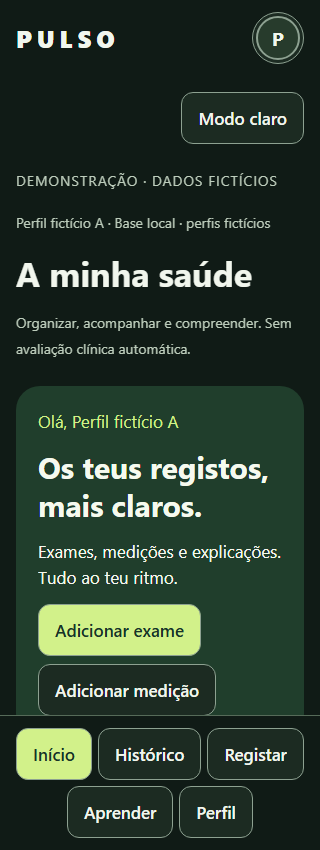
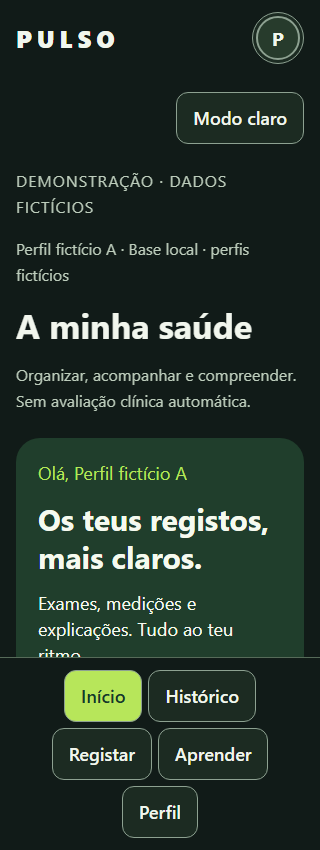
release: validate PULSO v0.7 adaptive experience and health timeline

diff --git a/apps/mobile/src/clinical/EventViews.tsx b/apps/mobile/src/clinical/EventViews.tsx
@@ -12,7 +12,7 @@ export function EventEditor({owner,data,event,onSaved,onCancel}:{owner:string;da
  async function save(){setBusy(true);setError('');try{if(event)await clinicalRepository.editEvent(owner,id,draft,version);else await clinicalRepository.saveEvent(owner,{...draft,id,ownerId:owner,synthetic:true});onSaved();}catch(e){setError((e as Error).message);setConflict(e instanceof ApiError&&e.status===409);}finally{setBusy(false);}}
  function revise(){if(!draft.title.trim()||draft.title.length>120||draft.description.length>2000||!validTimestamp(draft.startsAt)||draft.endsAt&&(!validTimestamp(draft.endsAt)||Date.parse(draft.endsAt)<Date.parse(draft.startsAt))){setError('Introduza um título até 120 caracteres e datas válidas. O fim não pode ser anterior ao início; descrição até 2000 caracteres.');return;}setError('');setReview(true);}
  return <Card><T kind="heading">{event?'Editar acontecimento':'Registar acontecimento'}</T><T kind="small">Apenas factos fictícios declarados por si. Sem diagnóstico, avaliação automática ou relação causal com medições.</T>
- {review?<><T>{draft.title} · {eventTypes[draft.type]}</T><T>{displayTime(draft.startsAt)}{draft.endsAt?' até '+displayTime(draft.endsAt):''}</T><T>{draft.description}</T><T kind="small">{draft.documentIds.length} documentos associados · {draft.verification==='documented'?'Documentado, sem validação clínica':'Autodeclarado'}</T><Button label="Confirmar e guardar acontecimento" primary disabled={busy||conflict} onPress={()=>void save()}/><Button label="Voltar à edição do acontecimento" disabled={busy} onPress={()=>setReview(false)}/></>:<><Field label="Título do acontecimento" value={draft.title} onChange={title=>setDraft({...draft,title})}/><View style={layout.row}>{Object.entries(eventTypes).map(([type,label])=><Button key={type} label={label} selected={draft.type===type} onPress={()=>setDraft({...draft,type:type as HealthEvent['type']})}/>)}</View><Field dateTime label="Início do acontecimento" value={draft.startsAt} onChange={startsAt=>setDraft({...draft,startsAt})}/><Field dateTime label="Fim do acontecimento (opcional)" value={draft.endsAt??''} onChange={endsAt=>setDraft({...draft,endsAt:endsAt||null})}/><T kind="small">Horas locais do navegador; guardadas com fuso. Na interface nativa experimental use ISO com fuso.</T><Field label="Descrição do acontecimento" value={draft.description} onChange={description=>setDraft({...draft,description})}/><Field label="Instituição (opcional)" value={draft.institution} onChange={institution=>setDraft({...draft,institution})}/>
+ {review?<><T>{draft.title} · {eventTypes[draft.type]}</T><T>{displayTime(draft.startsAt)}{draft.endsAt?' até '+displayTime(draft.endsAt):''}</T><T>{draft.description}</T><T kind="small">{draft.documentIds.length} documentos associados · {draft.verification==='documented'?'Documentado, sem validação clínica':'Autodeclarado'}</T><Button label="Confirmar e guardar acontecimento" primary disabled={busy||conflict} onPress={()=>void save()}/><Button label="Voltar à edição do acontecimento" disabled={busy} onPress={()=>setReview(false)}/></>:<><Field label="Título do acontecimento" value={draft.title} onChange={title=>setDraft({...draft,title})}/><View style={layout.row}>{Object.entries(eventTypes).map(([type,label])=><Button key={type} label={label} selected={draft.type===type} onPress={()=>setDraft({...draft,type:type as HealthEvent['type']})}/>)}</View><Field required dateTime label="Início do acontecimento" value={draft.startsAt} onChange={startsAt=>setDraft({...draft,startsAt})}/><Field dateTime label="Fim do acontecimento (opcional)" value={draft.endsAt??''} onChange={endsAt=>setDraft({...draft,endsAt:endsAt||null})}/><T kind="small">Horas locais do navegador; guardadas com fuso. Na interface nativa experimental use ISO com fuso.</T><Field label="Descrição do acontecimento" value={draft.description} onChange={description=>setDraft({...draft,description})}/><Field label="Instituição (opcional)" value={draft.institution} onChange={institution=>setDraft({...draft,institution})}/>
  <T kind="heading">Documentos associados</T>{data.documents.filter(d=>d.ownerId===owner).map(doc=><Button key={doc.id} label={'Associar '+doc.title} selected={draft.documentIds.includes(doc.id)} onPress={()=>{const links=draft.documentIds.includes(doc.id)?draft.documentIds.filter(id=>id!==doc.id):[...draft.documentIds,doc.id];setDraft({...draft,documentIds:links,verification:links.length?draft.verification:'user_declared'});}}/>)}{!data.documents.length&&<T kind="small">Sem documentos guardados. Pode registar sem documento.</T>}{!!draft.documentIds.length&&<Button label="Assinalar como documentado (não validado clinicamente)" selected={draft.verification==='documented'} onPress={()=>setDraft({...draft,verification:draft.verification==='documented'?'user_declared':'documented'})}/>}<Button label="Rever acontecimento" primary disabled={busy||conflict} onPress={revise}/></>}
  {conflict&&<Card><T>Os campos foram mantidos. Consulte a versão guardada antes de decidir.</T><Button label="Consultar versão atual do acontecimento" disabled={busy} onPress={()=>void clinicalRepository.load(owner).then(data=>{const row=data.events?.find(e=>e.id===id);if(!row)throw Error('O acontecimento foi eliminado. Cancele a edição para atualizar.');setCurrent(row);}).catch(e=>setError(e.message))}/>{current&&<><EventDetail event={current} data={data}/><Button label="Usar versão atual mantendo os meus campos" onPress={()=>{setVersion(current.version);setConflict(false);setError('');}}/></>}</Card>}
  <Button label="Cancelar acontecimento" disabled={busy} onPress={onCancel}/>{!!error&&<T accessibilityRole="alert">{error}</T>}{busy&&<T accessibilityLiveRegion="polite">A guardar…</T>}</Card>;

diff --git a/apps/mobile/src/ui.tsx b/apps/mobile/src/ui.tsx
@@ -25,8 +25,8 @@ export function T({children,kind='body',level,style,...rest}:TextProps&{tabIndex
 }
 export function Card({children,testID,style}:{children:React.ReactNode;testID?:string;style?:StyleProp<ViewStyle>}){const {colors:c}=useTheme();return <View testID={testID} style={[{backgroundColor:c.card,borderColor:c.line,borderWidth:1,borderRadius:20,padding:20,gap:12},style]}>{children}</View>;}
 export function Button({label,onPress,selected,primary=false,disabled=false,buttonRef}:{label:string;onPress:()=>void;selected?:boolean;primary?:boolean;disabled?:boolean;buttonRef?:React.Ref<View>}){const {colors:c,settings}=useTheme();return <Pressable ref={buttonRef} accessibilityRole="button" accessibilityLabel={label} accessibilityState={Platform.OS==='web'?{disabled}:{selected,disabled}} {...(Platform.OS==='web'?{'aria-pressed':selected}:{})} disabled={disabled} onPress={onPress} style={({pressed})=>({minHeight:settings.mode==='simple'?56:50,maxWidth:'100%',paddingHorizontal:16,paddingVertical:12,borderRadius:12,borderWidth:1,borderColor:c.control,backgroundColor:selected||primary?c.accent:c.card,opacity:disabled?0.5:pressed?0.75:1,justifyContent:'center'})}><T style={{fontWeight:'600',color:selected||primary?c.accentInk:c.ink}}>{label}</T></Pressable>;}
-export function Field({label,value,onChange,placeholder,labelAccessory,error,inputRef,secure=false,date=false,dateTime=false,dateMax}:{label:string;value:string;onChange:(s:string)=>void;placeholder?:string;labelAccessory?:React.ReactNode;error?:string;inputRef?:React.Ref<TextInput>;secure?:boolean;date?:boolean;dateTime?:boolean;dateMax?:string}){
+export function Field({label,value,onChange,placeholder,labelAccessory,error,inputRef,secure=false,date=false,dateTime=false,dateMax,required=false}:{label:string;value:string;onChange:(s:string)=>void;placeholder?:string;labelAccessory?:React.ReactNode;error?:string;inputRef?:React.Ref<TextInput>;secure?:boolean;date?:boolean;dateTime?:boolean;dateMax?:string;required?:boolean}){
  const {colors:c,scale,dark}=useTheme(),id=useId(),labelId=id+'-label',errorId=id+'-error';
- return <View style={{gap:5}}><View style={{flexDirection:'row',alignItems:'center',gap:8}}><View style={{flex:1}}><T nativeID={labelId} kind="small">{label}</T></View>{labelAccessory}</View>{(date||dateTime)&&Platform.OS==='web'?<input type={dateTime?'datetime-local':'date'} aria-label={label} aria-labelledby={labelId} aria-invalid={!!error} aria-describedby={error?errorId:undefined} required min={dateTime?undefined:"1900-01-01"} max={dateMax} value={dateTime&&value&&Number.isFinite(Date.parse(value))?new Date(Date.parse(value)-new Date(value).getTimezoneOffset()*60000).toISOString().slice(0,16):value} onChange={event=>onChange(dateTime&&event.target.value?new Date(event.target.value).toISOString():event.target.value)} style={{width:'100%',minWidth:0,boxSizing:'border-box',color:c.ink,fontSize:18*scale,padding:14,minHeight:50,border:`${error?2:1}px solid ${c.control}`,borderRadius:10,backgroundColor:c.bg,colorScheme:dark?'dark':'light'}}/>:<TextInput ref={inputRef} accessibilityLabel={label} aria-labelledby={labelId} aria-invalid={!!error} aria-describedby={error?errorId:undefined} secureTextEntry={secure} autoCapitalize={secure||label.includes('mail')?'none':undefined} value={value} onChangeText={onChange} placeholder={placeholder} placeholderTextColor={c.muted} style={{color:c.ink,fontSize:18*scale,padding:14,minHeight:50,borderWidth:error?2:1,borderColor:error?c.ink:c.control,borderRadius:10,backgroundColor:c.bg}}/>}{!!error&&<T nativeID={errorId} kind="small">{error}</T>}</View>;
+ return <View style={{gap:5}}><View style={{flexDirection:'row',alignItems:'center',gap:8}}><View style={{flex:1}}><T nativeID={labelId} kind="small">{label}</T></View>{labelAccessory}</View>{(date||dateTime)&&Platform.OS==='web'?<input type={dateTime?'datetime-local':'date'} aria-label={label} aria-labelledby={labelId} aria-invalid={!!error} aria-describedby={error?errorId:undefined} required={required} min={dateTime?undefined:"1900-01-01"} max={dateMax} value={dateTime&&value&&Number.isFinite(Date.parse(value))?new Date(Date.parse(value)-new Date(value).getTimezoneOffset()*60000).toISOString().slice(0,16):value} onChange={event=>onChange(dateTime&&event.target.value?new Date(event.target.value).toISOString():event.target.value)} style={{width:'100%',minWidth:0,boxSizing:'border-box',color:c.ink,fontSize:18*scale,padding:14,minHeight:50,border:`${error?2:1}px solid ${c.control}`,borderRadius:10,backgroundColor:c.bg,colorScheme:dark?'dark':'light'}}/>:<TextInput ref={inputRef} accessibilityLabel={label} aria-labelledby={labelId} aria-invalid={!!error} aria-describedby={error?errorId:undefined} secureTextEntry={secure} autoCapitalize={secure||label.includes('mail')?'none':undefined} value={value} onChangeText={onChange} placeholder={placeholder} placeholderTextColor={c.muted} style={{color:c.ink,fontSize:18*scale,padding:14,minHeight:50,borderWidth:error?2:1,borderColor:error?c.ink:c.control,borderRadius:10,backgroundColor:c.bg}}/>}{!!error&&<T nativeID={errorId} kind="small">{error}</T>}</View>;
 }
 export const layout=StyleSheet.create({stack:{gap:16},row:{flexDirection:'row',flexWrap:'wrap',gap:8},grow:{flexGrow:1,flexShrink:1,minWidth:0,flexBasis:260}});

diff --git a/apps/mobile/src/RegisterHub.tsx b/apps/mobile/src/RegisterHub.tsx
@@ -5,14 +5,14 @@ import {registrationCategories,classificationFor} from './clinical/classificatio
 import {PressureForm,PdfForm} from './clinical/Forms';
 type Selection={category:string;type:string}|null;
 const norm=(s:string)=>s.normalize('NFD').replace(/[\u0300-\u036f]/g,'').toLocaleLowerCase('pt-PT');
-export function RegisterHub({owner,onSaved,initialMode}:{owner:string;onSaved:()=>void;initialMode:'pressure'|'pdf'|null}){
+export function RegisterHub({owner,onSaved,initialMode,onEvent}:{onEvent?:()=>void;owner:string;onSaved:()=>void;initialMode:'pressure'|'pdf'|null}){
  const {colors:c}=useTheme(),[query,setQuery]=useState(''),[category,setCategory]=useState<string|null>(null),[selected,setSelected]=useState<Selection>(initialMode==='pressure'?{category:'pressure',type:'manual-pressure'}:initialMode==='pdf'?{category:'laboratory',type:'blood'}:null);
  const item=registrationCategories.find(c=>c.id===(selected?.category??category)),type=item?.types.find(t=>t.id===selected?.type);
  if(selected&&item&&type)return <View style={layout.stack}><Button label="Voltar às categorias de registo" onPress={()=>{setSelected(null);setCategory(null);}}/>
  {type.mode==='pressure'?<PressureForm owner={owner} onSaved={onSaved}/>:type.mode==='planned'?<Card><T kind="heading">Em preparação</T><T>Esta opção ainda não permite criar registos.</T></Card>:<PdfForm key={item.id+type.id} owner={owner} onSaved={onSaved} classification={classificationFor(item.id,type.id)} documentOnly={type.mode==='document'}/>}</View>;
  return <View style={layout.stack}><T kind="heading">O que pretende registar?</T><T>Selecione uma categoria para adicionar um exame, documento ou medição.</T>
  <Field label="Pesquisar categorias e tipos de exame" value={query} onChange={value=>{setQuery(value);setCategory(null);}} placeholder="Ex.: sangue, Holter, radiografia"/>
- <View style={layout.row}><Button label="Importar análises ao sangue" primary onPress={()=>setSelected({category:'laboratory',type:'blood'})}/><Button label="Registar tensão arterial" onPress={()=>setSelected({category:'pressure',type:'manual-pressure'})}/></View>
+ <View style={layout.row}><Button label="Importar análises ao sangue" primary onPress={()=>setSelected({category:'laboratory',type:'blood'})}/><Button label="Registar tensão arterial" onPress={()=>setSelected({category:'pressure',type:'manual-pressure'})}/>{onEvent&&<Button label="Registar acontecimento" onPress={onEvent}/>}</View>
  {item&&category?<Card><T kind="heading">{item.label}</T><View style={layout.row}>{item.types.map(t=><Button key={t.id} label={t.label+(t.mode==='planned'?' · Em preparação':'')} disabled={t.mode==='planned'} onPress={()=>setSelected({category:item.id,type:t.id})}/>)}</View><Button label="Todas as categorias de registo" onPress={()=>setCategory(null)}/></Card>:
  <View style={layout.row}>{registrationCategories.filter(item=>norm(item.label+' '+item.description+' '+item.types.map(t=>t.label).join(' ')).includes(norm(query.trim()))).map(item=><Pressable key={item.id} accessibilityRole="button" accessibilityLabel={item.label} onPress={()=>setCategory(item.id)} style={({pressed})=>({flexGrow:1,flexShrink:1,flexBasis:230,minWidth:0,minHeight:156,padding:20,gap:8,borderWidth:1,borderColor:c.control,borderRadius:20,backgroundColor:pressed?c.soft:c.card})}><T accessible={false} style={{fontSize:30,lineHeight:36}}>{item.icon}</T><T kind="heading">{item.label}</T><T kind="small">{item.description}</T></Pressable>)}</View>}
  {!registrationCategories.some(item=>norm(item.label+' '+item.description+' '+item.types.map(t=>t.label).join(' ')).includes(norm(query.trim())))&&<Card><T>Nenhuma categoria encontrada. Experimente outra palavra.</T></Card>}

diff --git a/apps/mobile/e2e/events.spec.ts b/apps/mobile/e2e/events.spec.ts
@@ -5,6 +5,6 @@ test('acontecimentos: criar, associar original, editar, marcadores agrupados e e
  await page.getByRole('button',{name:'Editar acontecimento',exact:true}).click();await page.getByLabel('Título do acontecimento',{exact:true}).fill('Queda fictícia corrigida');await page.getByRole('button',{name:'Rever acontecimento',exact:true}).click();await page.getByRole('button',{name:'Confirmar e guardar acontecimento',exact:true}).click();
  const snapshot=await (await page.request.get(base+'/data',{headers})).json(),event=snapshot.events[0];expect(event.version).toBe(2);expect(event.previousVersions).toHaveLength(1);
  expect((await page.request.post(base+'/events',{headers,data:{id:'same-day-fixture',ownerId:owner,synthetic:true,type:'other',title:'Outro acontecimento fictício',startsAt:event.startsAt,endsAt:null,description:'',institution:'',documentIds:[],verification:'user_declared'}})).ok()).toBeTruthy();
- await page.reload();await page.getByRole('button',{name:'Tensão arterial',exact:true}).click();await page.getByRole('button',{name:'Combinado',exact:true}).click();const markers=page.getByRole('button',{name:'Acontecimentos 2026-05-08: 2',exact:true});await expect(markers.first()).toBeVisible();await markers.last().focus();await page.keyboard.press('Enter');await expect(page.getByRole('heading',{name:'Queda fictícia corrigida',exact:true})).toBeVisible();await expect(page.getByRole('heading',{name:'Outro acontecimento fictício',exact:true})).toBeVisible();
+ await page.reload();await page.getByRole('button',{name:'Tensão arterial',exact:true}).click();await page.getByRole('button',{name:'Combinado',exact:true}).click();const markers=page.getByRole('button',{name:'Acontecimentos 2026-05-08: 2',exact:true});await expect(markers.first()).toBeVisible();await markers.last().focus();await page.keyboard.press('Enter');await expect(page.getByRole('heading',{name:'Queda fictícia corrigida',exact:true})).toBeVisible();await expect(page.getByRole('heading',{name:'Outro acontecimento fictício',exact:true})).toBeVisible();await page.setViewportSize({width:1100,height:900});await page.getByTestId('timeline-plot').first().scrollIntoViewIfNeeded();await page.screenshot({path:'../../tmp/v07-event-chart-1100.png'});await page.setViewportSize({width:320,height:850});await expect.poll(()=>page.evaluate(()=>document.documentElement.scrollWidth<=innerWidth)).toBe(true);await page.getByTestId('timeline-plot').first().scrollIntoViewIfNeeded();await page.screenshot({path:'../../tmp/v07-event-chart-320.png'});
  await page.getByRole('button',{name:'Histórico',exact:true}).click();await page.getByRole('button',{name:'Acontecimentos',exact:true}).click();await page.getByLabel('Pesquisar no Histórico',{exact:true}).fill('Queda fictícia corrigida');await page.getByRole('button',{name:'Consultar acontecimento Queda fictícia corrigida',exact:true}).click();await page.getByRole('button',{name:'Eliminar acontecimento',exact:true}).click();await page.getByRole('button',{name:'Confirmar eliminação do acontecimento',exact:true}).click();const after=await (await page.request.get(base+'/data',{headers})).json();expect(after.events).toHaveLength(1);expect(after.documents).toEqual(snapshot.documents);expect(after.results).toEqual(snapshot.results);
 });

diff --git a/apps/mobile/src/auth/AccountPanel.tsx b/apps/mobile/src/auth/AccountPanel.tsx
@@ -20,7 +20,7 @@ function requireBirthDate(value:string|null){
  throw Error('A data de nascimento é obrigatória e deve ser válida.');
 }
 function BirthDate({draft,setDraft}:{draft:Draft;setDraft:(d:Draft)=>void}){
- return <View style={{gap:6}}><Field date dateMax={new Date().toISOString().slice(0,10)} label="Data de nascimento (obrigatória, AAAA-MM-DD)" value={draft.birthDate??''} placeholder="Ex.: 1970-05-23" onChange={birthDate=>setDraft({...draft,birthDate:birthDate||null})} error={draft.birthDate&&!validBirthDate(draft.birthDate)?'Introduza uma data válida entre 1900 e hoje.':undefined}/><T kind="small">Obrigatória para preparar a futura personalização do Hub. Ainda não altera as funcionalidades nem gera objetivos clínicos. Use uma data fictícia.</T></View>;
+ return <View style={{gap:6}}><Field required date dateMax={new Date().toISOString().slice(0,10)} label="Data de nascimento (obrigatória, AAAA-MM-DD)" value={draft.birthDate??''} placeholder="Ex.: 1970-05-23" onChange={birthDate=>setDraft({...draft,birthDate:birthDate||null})} error={draft.birthDate&&!validBirthDate(draft.birthDate)?'Introduza uma data válida entre 1900 e hoje.':undefined}/><T kind="small">Obrigatória para preparar a futura personalização do Hub. Ainda não altera as funcionalidades nem gera objetivos clínicos. Use uma data fictícia.</T></View>;
 }
 export function ConditionSelector({selected,onChange}:{selected:string[];onChange:(v:string[])=>void}){
  const [search,setSearch]=useState(''),matches=searchConditions(search),custom=customCondition(search,selected);
@@ -46,7 +46,7 @@ function OptionalFields({draft,setDraft}:{draft:Draft;setDraft:(d:Draft)=>void})
 }
 
 export function AccountPanel({view,onView,onHistory,onOnboarding}:{onOnboarding?:()=>void;view:ProfileView;onView:(v:ProfileView)=>void;onHistory:()=>void}){
- const auth=useAuth(),theme=useTheme();
+ const auth=useAuth();
  if(!auth.user)return <GuestAccount key={view} view={view} onView={onView}/>;
  if(view==='preferences')return <ExperiencePanel/>;
  if(view==='privacy')return <Card><T kind="heading">Privacidade e segurança</T><T>Conta experimental com sessão no servidor. A base local ainda não tem encriptação apropriada para dados reais.</T><T>Apenas identidade e documentos fictícios. Confirmação de resultados não é validação médica. Fotografias não são enviadas ao Ollama.</T><T kind="small">As sessões expiram ao fim de oito horas. Terminar sessão revoga a sessão atual; recuperar a palavra-passe revoga todas. Não existe serviço de e-mail: a confirmação por código é só de desenvolvimento e não comprova titularidade de uma caixa de correio real.</T><Button label="Voltar ao meu perfil" onPress={()=>onView('profile')}/></Card>;

diff --git a/apps/mobile/App.tsx b/apps/mobile/App.tsx
@@ -54,7 +54,7 @@ function Shell(){
  <Button label="Voltar ao início" onPress={()=>navigate('Início')}/></View>:
  state.tab==='Início'?<Hub data={data} ownerId={owner} profileName={profile.displayName} topicCount={publishedTopics.length} featured={todayTopic()} onEvent={()=>start('event')} onImport={()=>start('pdf')} onPressure={()=>start('pressure')} onHistory={()=>navigate('Histórico')} onArea={goArea} onParameter={goParameter} onLearn={()=>navigate('Aprender')} onTopic={goTopic}/>:
  state.tab==='Histórico'?<History key={owner+revision} data={data} onChanged={message=>{setRevision(x=>x+1);setMessage(message);}}/>:
- state.tab==='Registar'&&form==='event'?<EventEditor owner={owner} data={data} onSaved={()=>{saved();setMessage('Acontecimento guardado na cronologia.');}} onCancel={()=>setForm(null)}/>:state.tab==='Registar'?<View style={layout.stack}><Button label="Registar acontecimento" onPress={()=>setForm('event')}/><RegisterHub key={owner+'-'+form} owner={owner} onSaved={saved} initialMode={form==='event'?null:form}/></View>:
+ state.tab==='Registar'&&form==='event'?<EventEditor owner={owner} data={data} onSaved={()=>{saved();setMessage('Acontecimento guardado na cronologia.');}} onCancel={()=>setForm(null)}/>:state.tab==='Registar'?<View style={layout.stack}><RegisterHub onEvent={()=>setForm('event')} key={owner+'-'+form} owner={owner} onSaved={saved} initialMode={form==='event'?null:form}/></View>:
  state.tab==='Perfil'?<View style={layout.stack}><AccountPanel onOnboarding={()=>setOnboarding(true)} view={profileView} onView={setProfileView} onHistory={()=>navigate('Histórico')}/>{!auth.user&&<><Card><T kind="heading">Perfis de demonstração</T><T kind="small">Estes perfis não são contas autenticadas. A troca limpa detalhes e formulários não guardados.</T>{profiles.map(p=><Button key={p.id} label={p.displayName} selected={p.id===state.profileId} onPress={()=>{setMessage('');setResetConfirm(false);dispatch({type:'profile',id:p.id});}}/>)}</Card>
  <Card><T kind="heading">Dados locais</T><T kind="small">Guardados neste computador pelo serviço local. Sem sincronização externa. Apenas dados fictícios.</T><Button label="Repor demonstração deste perfil" onPress={()=>setResetConfirm(true)}/>{resetConfirm&&<><T>Os registos e PDFs adicionados neste perfil serão removidos. Os exemplos iniciais serão repostos.</T><Button label="Confirmar reposição" onPress={()=>void clinicalRepository.reset(state.profileId).then(()=>{setRevision(x=>x+1);setResetConfirm(false);setMessage('Demonstração reposta.');}).catch(()=>setMessage('Não foi possível repor.'))}/><Button label="Cancelar reposição" onPress={()=>setResetConfirm(false)}/></>}</Card></>}</View>:
  null}

diff --git a/apps/mobile/src/clinical/TimelineChart.tsx b/apps/mobile/src/clinical/TimelineChart.tsx
@@ -34,7 +34,7 @@ export function TimelineChart({series,data,timeDomain,color,events=[]}:{series:S
  </View></View>
  <View style={{flexDirection:'row',justifyContent:'space-between',gap:8}}><T kind="small">{displayDate(timeDomain?new Date(timeDomain.min).toISOString():series.points[0].measuredAt)}</T><T kind="small">{displayDate(timeDomain?new Date(timeDomain.max).toISOString():last.measuredAt)}</T></View>
  <T kind="small">Escala numérica descritiva em {series.unit}, sem faixas clínicas. {series.points.length===1?'Um único ponto, sem tendência.':'Linhas ligam registos; não estimam medições intermédias.'}</T>
- {!!eventGroups.length&&<View style={layout.stack}><T kind="heading" level={3}>Contexto na cronologia</T><T kind="small">◆ Acontecimentos; faixas representam duração. Coincidência temporal não prova causa e efeito.</T>{eventGroups.map(([day,rows])=><Button key={day} label={'Acontecimentos '+day+': '+rows.length} selected={eventDay===day} onPress={()=>setEventDay(day)}/>)}{eventGroups.find(([day])=>day===eventDay)?.[1].map(event=><Card key={event.id}><EventDetail event={event} data={data}/></Card>)}</View>}
+ {!!eventGroups.length&&<View style={layout.stack}><T kind="heading" level={3}>Contexto na cronologia</T><T kind="small">◆ Acontecimentos agrupados por dia UTC; detalhes em hora local. Faixas representam duração. Coincidência temporal não prova causa e efeito.</T>{eventGroups.map(([day,rows])=><Button key={day} label={'Acontecimentos '+day+': '+rows.length} selected={eventDay===day} onPress={()=>setEventDay(day)}/>)}{eventGroups.find(([day])=>day===eventDay)?.[1].map(event=><Card key={event.id}><EventDetail event={event} data={data}/></Card>)}</View>}
  <T kind="heading" level={3}>Registos do gráfico</T>
  <View role="list" accessibilityLabel={'Medições de '+parameterLabels[series.parameter]} style={layout.stack}>{rows.map(p=><View key={p.id} role="listitem" style={{gap:6}}><Button label={resultDate(p)+' · '+numberText(p.value)+' '+p.unit} selected={selected===p.id} onPress={()=>setSelected(p.id)}/><T kind="small">Origem do registo: {originFor(data,p)} · {data.documents.find(d=>d.id===p.documentId&&d.ownerId===p.ownerId)?.title??'Registo domiciliário, sem documento'}</T></View>)}</View>
  {series.points.length>50&&<View style={layout.row}><Button label="Medições anteriores" disabled={page===0} onPress={()=>setPage(page-1)}/><T kind="small">Página {page+1} de {Math.ceil(series.points.length/50)} · todas as medições disponíveis nesta lista</T><Button label="Medições seguintes" disabled={(page+1)*50>=series.points.length} onPress={()=>setPage(page+1)}/></View>}

diff --git a/apps/mobile/e2e/experience.spec.ts b/apps/mobile/e2e/experience.spec.ts
@@ -12,5 +12,5 @@ test('onboarding, modos e preferências persistem sem alterar registos ou permis
  await page.reload();await expect(page.getByRole('button',{name:'Mostrar todos os resumos',exact:true})).toBeVisible();await menu('Preferências');await page.getByRole('button',{name:'Detalhado',exact:true}).click();await expect(page.getByRole('button',{name:'Detalhado',exact:true})).toHaveAttribute('aria-pressed','true');await page.getByRole('button',{name:'Muito grande',exact:true}).click();await expect(page.getByRole('button',{name:'Muito grande',exact:true})).toHaveAttribute('aria-pressed','true');
  await page.setViewportSize({width:320,height:850});await expect.poll(()=>page.evaluate(()=>document.documentElement.scrollWidth<=innerWidth)).toBe(true);await page.getByRole('button',{name:'Início',exact:true}).click();await expect(page.getByRole('button',{name:'Abrir filtros do Histórico',exact:true})).toBeVisible();
  expect(await (await page.request.get(api+'/demo/profiles/'+first.id+'/data')).json()).toEqual(before);
- await menu('Terminar sessão');await expect(page.getByText('DEMONSTRAÇÃO · DADOS FICTÍCIOS',{exact:true})).toBeVisible();await expect(page.getByRole('button',{name:'Abrir filtros do Histórico',exact:true})).toHaveCount(0);
+ await page.screenshot({path:'../../tmp/v07-hub-detailed-320.png'});await menu('Preferências');await page.getByRole('button',{name:'Grande',exact:true}).click();await expect(page.getByRole('button',{name:'Grande',exact:true})).toHaveAttribute('aria-pressed','true');await page.getByRole('button',{name:'Simples',exact:true}).click();await expect(page.getByRole('button',{name:'Simples',exact:true})).toHaveAttribute('aria-pressed','true');await page.getByRole('button',{name:'Início',exact:true}).click();await page.screenshot({path:'../../tmp/v07-hub-simple-320.png'});await menu('Terminar sessão');await expect(page.getByText('DEMONSTRAÇÃO · DADOS FICTÍCIOS',{exact:true})).toBeVisible();await expect(page.getByRole('button',{name:'Abrir filtros do Histórico',exact:true})).toHaveCount(0);
 });

diff --git a/apps/mobile/src/clinical/ClinicalPanel.tsx b/apps/mobile/src/clinical/ClinicalPanel.tsx
@@ -29,7 +29,7 @@ export function ClinicalPanel({ownerId,parameters,data,initialParameter}:{ownerI
  <MedicalTerm parameter={parameter} label={parameterLabels[parameter]}/>
  {settings.mode==='simple'&&<Button label={more?'Ocultar períodos adicionais':'Mostrar todos os períodos'} onPress={()=>setMore(!more)}/>}
  <View accessibilityLabel="Período" style={layout.row}>{periods.filter(([id])=>settings.mode!=='simple'||more||['all','90','1y'].includes(id)).map(([id,label])=><Button key={id} label={label} selected={period===id} onPress={()=>setPeriod(id)}/>)}</View>
- {period==='custom'&&<Card><Field date label="Data inicial do gráfico" value={start} onChange={setStart}/><Field date label="Data final do gráfico" value={end} onChange={setEnd}/><T kind="small">Inclui os dois dias completos, em UTC. Não modifica registos.</T></Card>}{!!rangeError&&<T accessibilityRole="alert">{rangeError}</T>}
+ {period==='custom'&&<Card><Field required date label="Data inicial do gráfico" value={start} onChange={setStart}/><Field required date label="Data final do gráfico" value={end} onChange={setEnd}/><T kind="small">Inclui os dois dias completos, em UTC. Não modifica registos.</T></Card>}{!!rangeError&&<T accessibilityRole="alert">{rangeError}</T>}
 
  <T kind="small">{all.length} confirmados no histórico · {shown} representados neste período · {outside} fora do período.</T><T kind="small">Períodos relativos a hoje. Unidades, métodos e amostras diferentes permanecem em séries independentes.</T>
  {!!omitted&&<T kind="small">{omitted} registo(s) pendentes ou incompletos fora do gráfico.</T>}

diff --git a/apps/mobile/src/clinical/timeRange.ts b/apps/mobile/src/clinical/timeRange.ts
@@ -4,7 +4,7 @@ export function validDay(s:string){return /^\d{4}-\d{2}-\d{2}$/.test(s)&&Number.
 export function timeRange(period:string,start='',end='',now=Date.now()):{min:number;max:number}|null{
  if(period==='all')return null;
  if(period==='custom'){if(!validDay(start)||!validDay(end)||start>end)throw Error('Escolha datas válidas; a data inicial não pode ser posterior à final.');return {min:Date.parse(start+'T00:00:00Z'),max:Date.parse(end+'T23:59:59.999Z')};}
- const date=new Date(now);if(period.endsWith('m'))date.setUTCMonth(date.getUTCMonth()-Number(period.slice(0,-1)));else if(period.endsWith('y'))date.setUTCFullYear(date.getUTCFullYear()-Number(period.slice(0,-1)));else date.setTime(now-Number(period)*86400000);
+ const date=new Date(now);if(period.endsWith('m')||period.endsWith('y')){const day=date.getUTCDate();date.setUTCDate(1);date.setUTCMonth(date.getUTCMonth()-Number(period.slice(0,-1))*(period.endsWith('y')?12:1));const last=new Date(Date.UTC(date.getUTCFullYear(),date.getUTCMonth()+1,0)).getUTCDate();date.setUTCDate(Math.min(day,last));}else date.setTime(now-Number(period)*86400000);
  return {min:date.getTime(),max:now};
 }
 export function filterTime(data:ClinicalData,range:{min:number;max:number}|null):ClinicalData{return {...data,results:range?data.results.filter(r=>r.measuredAt&&Date.parse(r.measuredAt)>=range.min&&Date.parse(r.measuredAt)<=range.max):data.results};}

diff --git a/apps/mobile/tests/experience.test.ts b/apps/mobile/tests/experience.test.ts
@@ -1,0 +1,11 @@
+import test from 'node:test';
+import assert from 'node:assert/strict';
+import {design,defaultExperience,modes} from '../src/experience';
+function contrast(a:string,b:string){const l=(h:string)=>{const c=[1,3,5].map(i=>parseInt(h.slice(i,i+2),16)/255).map(v=>v<=.04045?v/12.92:((v+.055)/1.055)**2.4);return c[0]*.2126+c[1]*.7152+c[2]*.0722;};const x=l(a),y=l(b);return (Math.max(x,y)+.05)/(Math.min(x,y)+.05);}
+test('tokens dos dois temas: texto AA, limites/foco identificáveis e modos sem permissões',()=>{
+ for(const c of Object.values(design)){
+  for(const [a,b] of [[c.ink,c.bg],[c.ink,c.card],[c.muted,c.bg],[c.muted,c.card],[c.accentInk,c.accent],[c.heroInk,c.hero],[c.info,c.card]])assert.ok(contrast(a,b)>=4.5,`${a}/${b}`);
+  for(const b of [c.bg,c.card])assert.ok(contrast(c.control,b)>=3);
+ }
+ assert.equal(defaultExperience.mode,'balanced');assert.equal(modes.length,3);assert.ok(!('role' in defaultExperience));
+});

diff --git a/apps/mobile/tests/timeRange.test.ts b/apps/mobile/tests/timeRange.test.ts
@@ -9,6 +9,7 @@ test('intervalos inclusivos, datas inválidas e dados ausentes sem modificar a f
  assert.ok(filterTime(source,r).results.every(x=>x.measuredAt?.startsWith('2026-05-08')));assert.equal(JSON.stringify(source),before);
  assert.throws(()=>timeRange('custom','2026-02-30','2026-03-01'));assert.throws(()=>timeRange('custom','2026-05-09','2026-05-08'));
  for(const period of ['7','30','90','6m','1y','2y','5y']){const range=timeRange(period,'','',Date.parse('2026-11-08T12:00:00Z'))!;assert.ok(range.min<range.max);assert.equal(range.max,Date.parse('2026-11-08T12:00:00Z'));}
+ assert.equal(new Date(timeRange('6m','','',Date.parse('2026-03-31T12:00:00Z'))!.min).toISOString(),'2025-09-30T12:00:00.000Z');
  assert.equal(timeRange('all'),null);
 });
 test('eixo temporal comum e duplicados legítimos, sem unir unidades ou inventar valores',()=>{
